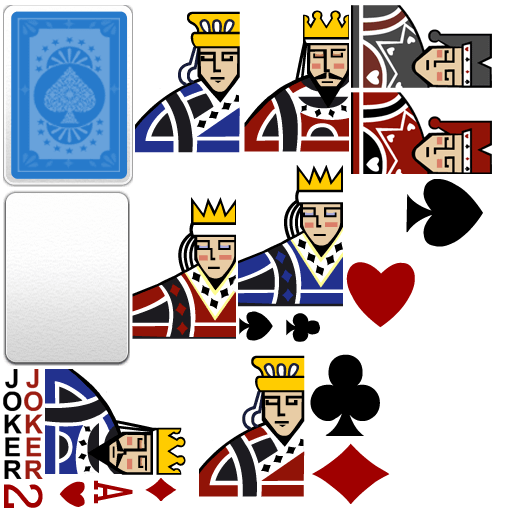
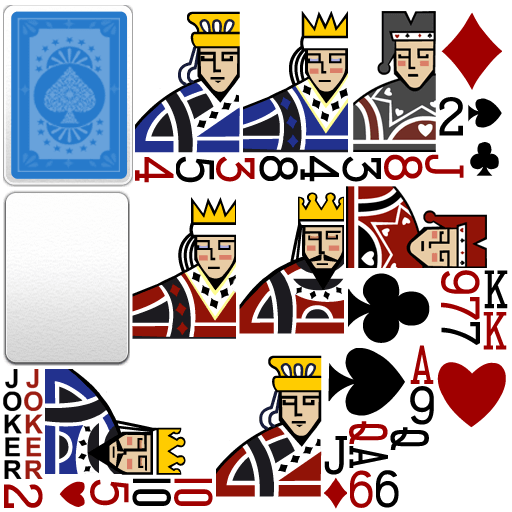
all cards

Changed region(s): [[0.1562, 0.0, 1.0, 1.0]]

diff --git a/SouShen/Classes/View/GameResources.h b/SouShen/Classes/View/GameResources.h
@@ -12,10 +12,18 @@ static const char s_pPathDDZMainGame0[]         = "Images/DouDiZhu/DDZ_MainGame0
 static const char s_pPlistDDZMainGame0[]        = "Images/DouDiZhu/DDZ_MainGame.plist";
 static const char s_pNameCardBackGround[]       = "bcardfront.png";
 
-//png src
-static const std::string s_pNameListNormalCardRedZi[13] = {"adfdf", "fdafdaf", "fdfda"};
-static const std::string s_pNameListNormalCardBlackZi[13] = {"adfdf", "fdafdaf", "fdfda"};
-
+/*--------------png src--------------*/
+//card zi list
+static const std::string s_pNameListNormalCardRedZi[13] = {"bcardredzi1.png", "bcardredzi2.png", "bcardredzi3.png", "bcardredzi4.png", "bcardredzi5.png", "bcardredzi6.png","bcardredzi7.png", "bcardredzi8.png", "bcardredzi9.png","bcardredzi10.png", "bcardredzi11.png", "bcardredzi12.png", "bcardredzi13.png"};
+static const std::string s_pNameListNormalCardBlackZi[13] = {"bcardblackzi1.png", "bcardblackzi2.png", "bcardblackzi3.png", "bcardblackzi4.png", "bcardblackzi5.png", "bcardblackzi6.png", "bcardblackzi7.png", "bcardblackzi8.png", "bcardblackzi9.png", "bcardblackzi10.png", "bcardblackzi11.png", "bcardblackzi12.png", "bcardblackzi13.png"};
+static const std::string s_pNameListKingZi[2] = {"bcardlittlekingzi.png", "bcardbigkingzi.png"};
+//card hua list
+static const std::string s_pNameListHua[4] = {"bcardheitaozi.png", "bcardhongtaozi.png", "bcardcaohuazi.png", "bcardfangpianzi.png"};
+//card grain list
+static const std::string s_pNameListNormalGrain[4] = {"bcardheitao.png", "bcardhongtao.png", "bcardcaohua.png", "bcardfangpian.png"};
+static const std::string s_pNameListBlueGGrain[3] = {"bcardbluej.png", "bcardblueq.png", "bcardbluek.png"};
+static const std::string s_pNameListRedGGrain[3] = {"bcardredj.png", "bcardredq.png", "bcardredk.png"};
+static const std::string s_pNameListKingGrain[2] = {"bcardlittleking.png", "bcardbigking.png"};
 /********************************icon********************************/
 
 

diff --git a/SouShen/Classes/View/Sprite/CardNormal.cpp b/SouShen/Classes/View/Sprite/CardNormal.cpp
@@ -31,7 +31,7 @@ void CardNormal::drawCard()
 			LOGERROR<<"card Value error";
 			
 		}
-		//pSpriteZi = CCSprite::createWithSpriteFrameName()
+		pSpriteZi = CCSprite::createWithSpriteFrameName()
 	}
 	else if (cardColor == 2 || cardColor == 3)
 	{
